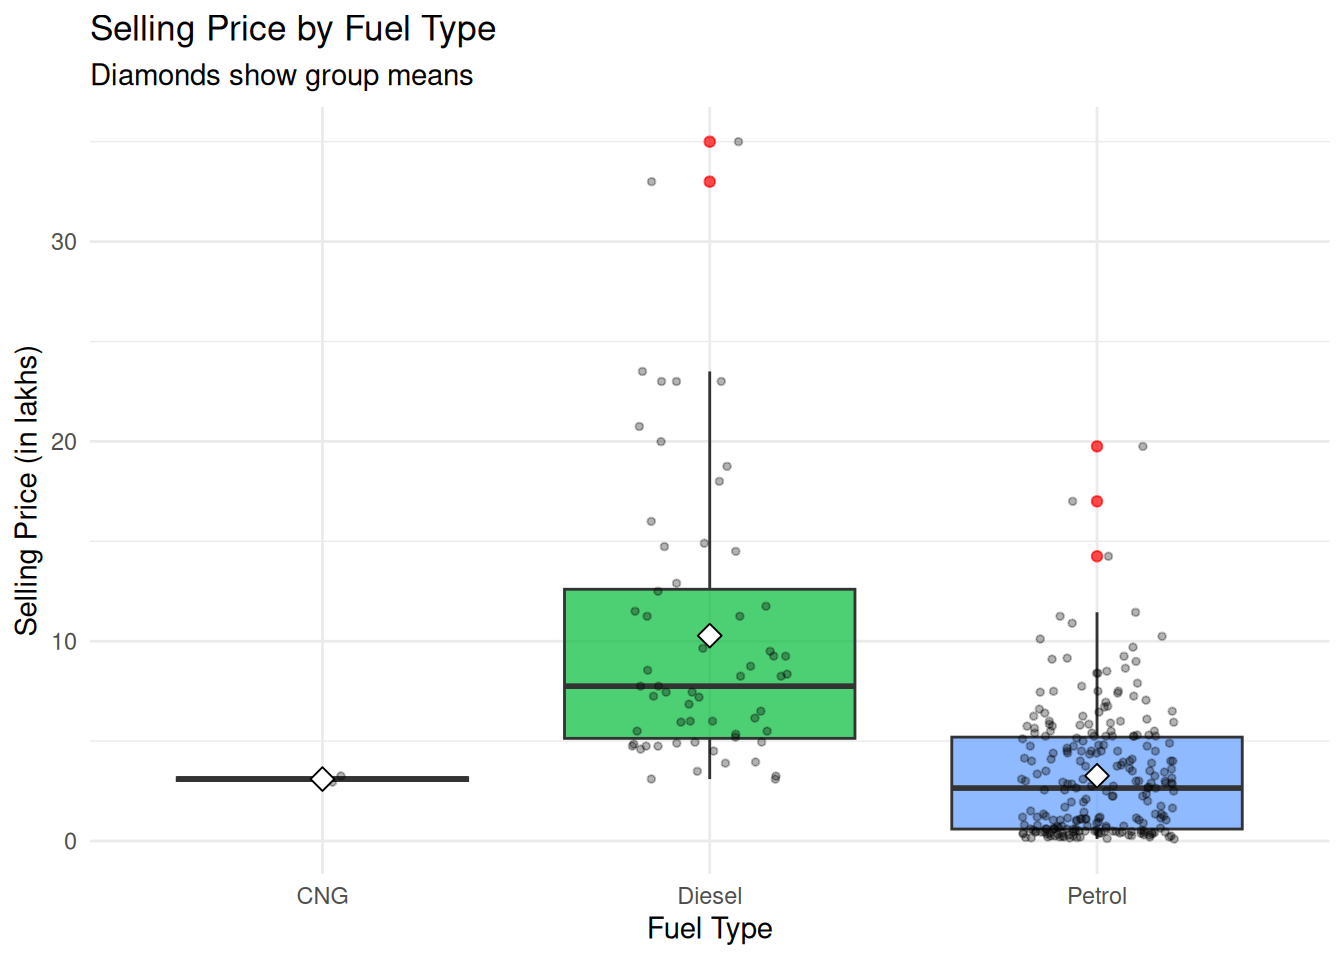
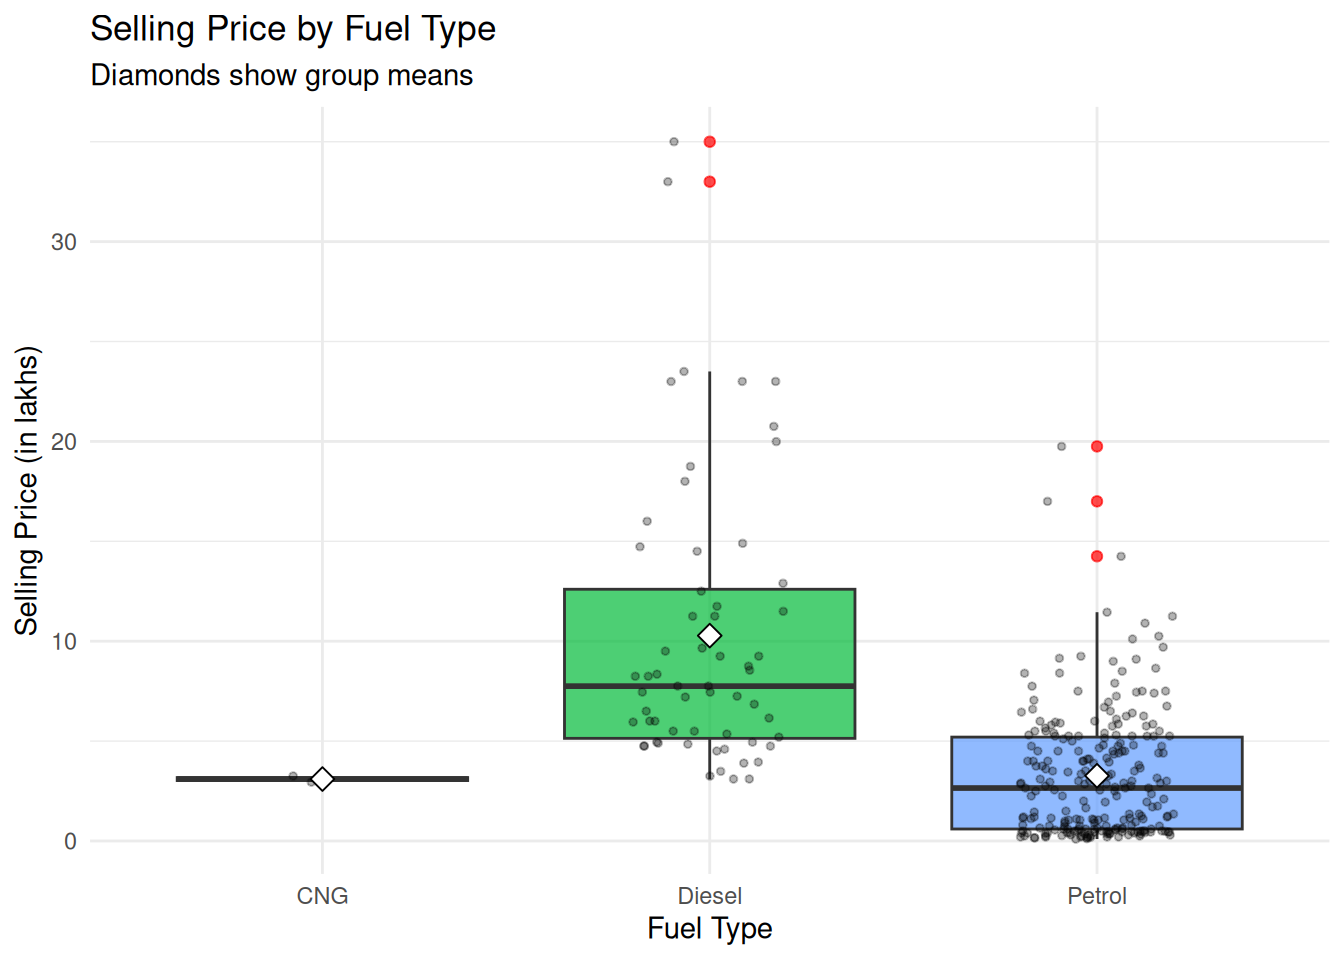
final test

diff --git a/docs/r-tutorial/4StatisticalAnalysis.html b/docs/r-tutorial/4StatisticalAnalysis.html
@@ -137,19 +137,19 @@ pre > code.sourceCode > span > a:first-child::before { text-decoration: underlin
     <ul class="dropdown-menu" aria-labelledby="nav-menu-r-tutorials">    
         <li>
     <a class="dropdown-item" href="../r-tutorial/RBasics.html">
- <span class="dropdown-text">Day 1: R Basics</span></a>
+ <span class="dropdown-text">1: R Basics</span></a>
   </li>  
         <li>
-    <a class="dropdown-item" href="../r-tutorial/2DataImportandDatawrangling.qmd">
- <span class="dropdown-text">Day 2: Data Import &amp; Wrangling</span></a>
+    <a class="dropdown-item" href="../r-tutorial/2DataImportandDataWrangling.html">
+ <span class="dropdown-text">2: Data Import &amp; Wrangling</span></a>
   </li>  
         <li>
     <a class="dropdown-item" href="../r-tutorial/3ExploratoryDataAnalysis.html">
- <span class="dropdown-text">Day 3: Exploratory Data Analysis</span></a>
+ <span class="dropdown-text">3: Exploratory Data Analysis</span></a>
   </li>  
         <li>
     <a class="dropdown-item" href="../r-tutorial/4StatisticalAnalysis.html">
- <span class="dropdown-text">Day 4: Statistical Analysis</span></a>
+ <span class="dropdown-text">4: Statistical Analysis</span></a>
   </li>  
     </ul>
   </li>
@@ -318,23 +318,23 @@ pre > code.sourceCode > span > a:first-child::before { text-decoration: underlin
 
     <script>
       // Create table-specific functions using external factory
-      const tableFns_x97oewbq8nd3em2rbmnx = TinyTable.createTableFunctions("tinytable_x97oewbq8nd3em2rbmnx");
+      const tableFns_f0hwm17ozva8h0u52bwy = TinyTable.createTableFunctions("tinytable_f0hwm17ozva8h0u52bwy");
       // tinytable span after
       window.addEventListener('load', function () {
           var cellsToStyle = [
             // tinytable style arrays after
-          { positions: [ { i: '6', j: 3 }, { i: '6', j: 4 }, { i: '6', j: 5 } ], css_id: 'tinytable_css_fjwmzmynzccey4q9a3yt',}, 
-          { positions: [ { i: '1', j: 3 }, { i: '2', j: 3 }, { i: '3', j: 3 }, { i: '4', j: 3 }, { i: '5', j: 3 }, { i: '1', j: 4 }, { i: '2', j: 4 }, { i: '3', j: 4 }, { i: '4', j: 4 }, { i: '5', j: 4 }, { i: '1', j: 5 }, { i: '2', j: 5 }, { i: '3', j: 5 }, { i: '4', j: 5 }, { i: '5', j: 5 } ], css_id: 'tinytable_css_l932uq15gn6jgnp03h8o',}, 
-          { positions: [ { i: '0', j: 3 }, { i: '0', j: 4 }, { i: '0', j: 5 } ], css_id: 'tinytable_css_5qlfgkfw08bh7ks2odpd',}, 
-          { positions: [ { i: '6', j: 1 }, { i: '6', j: 2 } ], css_id: 'tinytable_css_mdm7vsf9hsk6k2momst4',}, 
-          { positions: [ { i: '1', j: 1 }, { i: '2', j: 1 }, { i: '3', j: 1 }, { i: '4', j: 1 }, { i: '5', j: 1 }, { i: '1', j: 2 }, { i: '2', j: 2 }, { i: '3', j: 2 }, { i: '4', j: 2 }, { i: '5', j: 2 } ], css_id: 'tinytable_css_zv4sxur9bubp6rrwn2vb',}, 
-          { positions: [ { i: '0', j: 1 }, { i: '0', j: 2 } ], css_id: 'tinytable_css_0nu5k1dmy3rzo8pnt77o',}, 
+          { positions: [ { i: '6', j: 3 }, { i: '6', j: 4 }, { i: '6', j: 5 } ], css_id: 'tinytable_css_px8xc1wdc1hp5bkjf7ze',}, 
+          { positions: [ { i: '1', j: 3 }, { i: '2', j: 3 }, { i: '3', j: 3 }, { i: '4', j: 3 }, { i: '5', j: 3 }, { i: '1', j: 4 }, { i: '2', j: 4 }, { i: '3', j: 4 }, { i: '4', j: 4 }, { i: '5', j: 4 }, { i: '1', j: 5 }, { i: '2', j: 5 }, { i: '3', j: 5 }, { i: '4', j: 5 }, { i: '5', j: 5 } ], css_id: 'tinytable_css_20u63m51p6wjx6drf4g4',}, 
+          { positions: [ { i: '0', j: 3 }, { i: '0', j: 4 }, { i: '0', j: 5 } ], css_id: 'tinytable_css_hs7w8jh9zzkrdro0s85x',}, 
+          { positions: [ { i: '6', j: 1 }, { i: '6', j: 2 } ], css_id: 'tinytable_css_4qt3e8c734vmukqqgp5f',}, 
+          { positions: [ { i: '1', j: 1 }, { i: '2', j: 1 }, { i: '3', j: 1 }, { i: '4', j: 1 }, { i: '5', j: 1 }, { i: '1', j: 2 }, { i: '2', j: 2 }, { i: '3', j: 2 }, { i: '4', j: 2 }, { i: '5', j: 2 } ], css_id: 'tinytable_css_43wdl4wldp7e97fbopp4',}, 
+          { positions: [ { i: '0', j: 1 }, { i: '0', j: 2 } ], css_id: 'tinytable_css_nl65mdwcvut6maeoygsj',}, 
           ];
 
           // Loop over the arrays to style the cells
           cellsToStyle.forEach(function (group) {
               group.positions.forEach(function (cell) {
-                  tableFns_x97oewbq8nd3em2rbmnx.styleCell(cell.i, cell.j, group.css_id);
+                  tableFns_f0hwm17ozva8h0u52bwy.styleCell(cell.i, cell.j, group.css_id);
               });
           });
       });
@@ -343,15 +343,15 @@ pre > code.sourceCode > span > a:first-child::before { text-decoration: underlin
     <link rel="stylesheet" href="https://cdn.jsdelivr.net/gh/vincentarelbundock/tinytable@main/inst/tinytable.css">
     <style>
     /* tinytable css entries after */
-    #tinytable_x97oewbq8nd3em2rbmnx td.tinytable_css_fjwmzmynzccey4q9a3yt, #tinytable_x97oewbq8nd3em2rbmnx th.tinytable_css_fjwmzmynzccey4q9a3yt {  position: relative; --border-bottom: 1; --border-left: 0; --border-right: 0; --border-top: 0; --line-color-bottom: var(--tt-line-color); --line-color-left: var(--tt-line-color); --line-color-right: var(--tt-line-color); --line-color-top: var(--tt-line-color); --line-width-bottom: 0.1em; --line-width-left: 0.1em; --line-width-right: 0.1em; --line-width-top: 0.1em; --trim-bottom-left: 0%; --trim-bottom-right: 0%; --trim-left-bottom: 0%; --trim-left-top: 0%; --trim-right-bottom: 0%; --trim-right-top: 0%; --trim-top-left: 0%; --trim-top-right: 0%; ; text-align: right }
-    #tinytable_x97oewbq8nd3em2rbmnx td.tinytable_css_l932uq15gn6jgnp03h8o, #tinytable_x97oewbq8nd3em2rbmnx th.tinytable_css_l932uq15gn6jgnp03h8o { text-align: right }
-    #tinytable_x97oewbq8nd3em2rbmnx td.tinytable_css_5qlfgkfw08bh7ks2odpd, #tinytable_x97oewbq8nd3em2rbmnx th.tinytable_css_5qlfgkfw08bh7ks2odpd {  position: relative; --border-bottom: 1; --border-left: 0; --border-right: 0; --border-top: 1; --line-color-bottom: var(--tt-line-color); --line-color-left: var(--tt-line-color); --line-color-right: var(--tt-line-color); --line-color-top: var(--tt-line-color); --line-width-bottom: 0.05em; --line-width-left: 0.1em; --line-width-right: 0.1em; --line-width-top: 0.1em; --trim-bottom-left: 0%; --trim-bottom-right: 0%; --trim-left-bottom: 0%; --trim-left-top: 0%; --trim-right-bottom: 0%; --trim-right-top: 0%; --trim-top-left: 0%; --trim-top-right: 0%; ; text-align: right }
-    #tinytable_x97oewbq8nd3em2rbmnx td.tinytable_css_mdm7vsf9hsk6k2momst4, #tinytable_x97oewbq8nd3em2rbmnx th.tinytable_css_mdm7vsf9hsk6k2momst4 {  position: relative; --border-bottom: 1; --border-left: 0; --border-right: 0; --border-top: 0; --line-color-bottom: var(--tt-line-color); --line-color-left: var(--tt-line-color); --line-color-right: var(--tt-line-color); --line-color-top: var(--tt-line-color); --line-width-bottom: 0.1em; --line-width-left: 0.1em; --line-width-right: 0.1em; --line-width-top: 0.1em; --trim-bottom-left: 0%; --trim-bottom-right: 0%; --trim-left-bottom: 0%; --trim-left-top: 0%; --trim-right-bottom: 0%; --trim-right-top: 0%; --trim-top-left: 0%; --trim-top-right: 0%; ; text-align: left }
-    #tinytable_x97oewbq8nd3em2rbmnx td.tinytable_css_zv4sxur9bubp6rrwn2vb, #tinytable_x97oewbq8nd3em2rbmnx th.tinytable_css_zv4sxur9bubp6rrwn2vb { text-align: left }
-    #tinytable_x97oewbq8nd3em2rbmnx td.tinytable_css_0nu5k1dmy3rzo8pnt77o, #tinytable_x97oewbq8nd3em2rbmnx th.tinytable_css_0nu5k1dmy3rzo8pnt77o {  position: relative; --border-bottom: 1; --border-left: 0; --border-right: 0; --border-top: 1; --line-color-bottom: var(--tt-line-color); --line-color-left: var(--tt-line-color); --line-color-right: var(--tt-line-color); --line-color-top: var(--tt-line-color); --line-width-bottom: 0.05em; --line-width-left: 0.1em; --line-width-right: 0.1em; --line-width-top: 0.1em; --trim-bottom-left: 0%; --trim-bottom-right: 0%; --trim-left-bottom: 0%; --trim-left-top: 0%; --trim-right-bottom: 0%; --trim-right-top: 0%; --trim-top-left: 0%; --trim-top-right: 0%; ; text-align: left }
+    #tinytable_f0hwm17ozva8h0u52bwy td.tinytable_css_px8xc1wdc1hp5bkjf7ze, #tinytable_f0hwm17ozva8h0u52bwy th.tinytable_css_px8xc1wdc1hp5bkjf7ze {  position: relative; --border-bottom: 1; --border-left: 0; --border-right: 0; --border-top: 0; --line-color-bottom: var(--tt-line-color); --line-color-left: var(--tt-line-color); --line-color-right: var(--tt-line-color); --line-color-top: var(--tt-line-color); --line-width-bottom: 0.1em; --line-width-left: 0.1em; --line-width-right: 0.1em; --line-width-top: 0.1em; --trim-bottom-left: 0%; --trim-bottom-right: 0%; --trim-left-bottom: 0%; --trim-left-top: 0%; --trim-right-bottom: 0%; --trim-right-top: 0%; --trim-top-left: 0%; --trim-top-right: 0%; ; text-align: right }
+    #tinytable_f0hwm17ozva8h0u52bwy td.tinytable_css_20u63m51p6wjx6drf4g4, #tinytable_f0hwm17ozva8h0u52bwy th.tinytable_css_20u63m51p6wjx6drf4g4 { text-align: right }
+    #tinytable_f0hwm17ozva8h0u52bwy td.tinytable_css_hs7w8jh9zzkrdro0s85x, #tinytable_f0hwm17ozva8h0u52bwy th.tinytable_css_hs7w8jh9zzkrdro0s85x {  position: relative; --border-bottom: 1; --border-left: 0; --border-right: 0; --border-top: 1; --line-color-bottom: var(--tt-line-color); --line-color-left: var(--tt-line-color); --line-color-right: var(--tt-line-color); --line-color-top: var(--tt-line-color); --line-width-bottom: 0.05em; --line-width-left: 0.1em; --line-width-right: 0.1em; --line-width-top: 0.1em; --trim-bottom-left: 0%; --trim-bottom-right: 0%; --trim-left-bottom: 0%; --trim-left-top: 0%; --trim-right-bottom: 0%; --trim-right-top: 0%; --trim-top-left: 0%; --trim-top-right: 0%; ; text-align: right }
+    #tinytable_f0hwm17ozva8h0u52bwy td.tinytable_css_4qt3e8c734vmukqqgp5f, #tinytable_f0hwm17ozva8h0u52bwy th.tinytable_css_4qt3e8c734vmukqqgp5f {  position: relative; --border-bottom: 1; --border-left: 0; --border-right: 0; --border-top: 0; --line-color-bottom: var(--tt-line-color); --line-color-left: var(--tt-line-color); --line-color-right: var(--tt-line-color); --line-color-top: var(--tt-line-color); --line-width-bottom: 0.1em; --line-width-left: 0.1em; --line-width-right: 0.1em; --line-width-top: 0.1em; --trim-bottom-left: 0%; --trim-bottom-right: 0%; --trim-left-bottom: 0%; --trim-left-top: 0%; --trim-right-bottom: 0%; --trim-right-top: 0%; --trim-top-left: 0%; --trim-top-right: 0%; ; text-align: left }
+    #tinytable_f0hwm17ozva8h0u52bwy td.tinytable_css_43wdl4wldp7e97fbopp4, #tinytable_f0hwm17ozva8h0u52bwy th.tinytable_css_43wdl4wldp7e97fbopp4 { text-align: left }
+    #tinytable_f0hwm17ozva8h0u52bwy td.tinytable_css_nl65mdwcvut6maeoygsj, #tinytable_f0hwm17ozva8h0u52bwy th.tinytable_css_nl65mdwcvut6maeoygsj {  position: relative; --border-bottom: 1; --border-left: 0; --border-right: 0; --border-top: 1; --line-color-bottom: var(--tt-line-color); --line-color-left: var(--tt-line-color); --line-color-right: var(--tt-line-color); --line-color-top: var(--tt-line-color); --line-width-bottom: 0.05em; --line-width-left: 0.1em; --line-width-right: 0.1em; --line-width-top: 0.1em; --trim-bottom-left: 0%; --trim-bottom-right: 0%; --trim-left-bottom: 0%; --trim-left-top: 0%; --trim-right-bottom: 0%; --trim-right-top: 0%; --trim-top-left: 0%; --trim-top-right: 0%; ; text-align: left }
     </style>
     <div class="container">
-      <table class="tinytable" id="tinytable_x97oewbq8nd3em2rbmnx" style="width: auto; margin-left: auto; margin-right: auto;" data-quarto-disable-processing="true">
+      <table class="tinytable" id="tinytable_f0hwm17ozva8h0u52bwy" style="width: auto; margin-left: auto; margin-right: auto;" data-quarto-disable-processing="true">
         
         <thead>
               <tr>
@@ -427,23 +427,23 @@ pre > code.sourceCode > span > a:first-child::before { text-decoration: underlin
 
     <script>
       // Create table-specific functions using external factory
-      const tableFns_is73g3tyfkvq7sooiyvy = TinyTable.createTableFunctions("tinytable_is73g3tyfkvq7sooiyvy");
+      const tableFns_60r98s65unyoyfk5edbm = TinyTable.createTableFunctions("tinytable_60r98s65unyoyfk5edbm");
       // tinytable span after
       window.addEventListener('load', function () {
           var cellsToStyle = [
             // tinytable style arrays after
-          { positions: [ { i: '6', j: 3 }, { i: '6', j: 4 }, { i: '6', j: 5 } ], css_id: 'tinytable_css_jrj0rwdupziehlc3yhko',}, 
-          { positions: [ { i: '1', j: 3 }, { i: '2', j: 3 }, { i: '3', j: 3 }, { i: '4', j: 3 }, { i: '5', j: 3 }, { i: '1', j: 4 }, { i: '2', j: 4 }, { i: '3', j: 4 }, { i: '4', j: 4 }, { i: '5', j: 4 }, { i: '1', j: 5 }, { i: '2', j: 5 }, { i: '3', j: 5 }, { i: '4', j: 5 }, { i: '5', j: 5 } ], css_id: 'tinytable_css_7c1qo7l92bwl6og51ymd',}, 
-          { positions: [ { i: '0', j: 3 }, { i: '0', j: 4 }, { i: '0', j: 5 } ], css_id: 'tinytable_css_0urvwhf4bcc1biqfke37',}, 
-          { positions: [ { i: '6', j: 1 }, { i: '6', j: 2 } ], css_id: 'tinytable_css_qlpcxj84102po6uz0zsp',}, 
-          { positions: [ { i: '1', j: 1 }, { i: '2', j: 1 }, { i: '3', j: 1 }, { i: '4', j: 1 }, { i: '5', j: 1 }, { i: '1', j: 2 }, { i: '2', j: 2 }, { i: '3', j: 2 }, { i: '4', j: 2 }, { i: '5', j: 2 } ], css_id: 'tinytable_css_kydxbsbj6q5axvlqmrju',}, 
-          { positions: [ { i: '0', j: 1 }, { i: '0', j: 2 } ], css_id: 'tinytable_css_ojvg09soeau9135woak4',}, 
+          { positions: [ { i: '6', j: 3 }, { i: '6', j: 4 }, { i: '6', j: 5 } ], css_id: 'tinytable_css_4sq5pznfuazu47mcdti3',}, 
+          { positions: [ { i: '1', j: 3 }, { i: '2', j: 3 }, { i: '3', j: 3 }, { i: '4', j: 3 }, { i: '5', j: 3 }, { i: '1', j: 4 }, { i: '2', j: 4 }, { i: '3', j: 4 }, { i: '4', j: 4 }, { i: '5', j: 4 }, { i: '1', j: 5 }, { i: '2', j: 5 }, { i: '3', j: 5 }, { i: '4', j: 5 }, { i: '5', j: 5 } ], css_id: 'tinytable_css_8b79myqht8aiiu900tw2',}, 
+          { positions: [ { i: '0', j: 3 }, { i: '0', j: 4 }, { i: '0', j: 5 } ], css_id: 'tinytable_css_q1miqqi5r8g8tuguu9jn',}, 
+          { positions: [ { i: '6', j: 1 }, { i: '6', j: 2 } ], css_id: 'tinytable_css_9zvnf3exhc3zndmn2bfk',}, 
+          { positions: [ { i: '1', j: 1 }, { i: '2', j: 1 }, { i: '3', j: 1 }, { i: '4', j: 1 }, { i: '5', j: 1 }, { i: '1', j: 2 }, { i: '2', j: 2 }, { i: '3', j: 2 }, { i: '4', j: 2 }, { i: '5', j: 2 } ], css_id: 'tinytable_css_68dakkzs7ood0gfu988d',}, 
+          { positions: [ { i: '0', j: 1 }, { i: '0', j: 2 } ], css_id: 'tinytable_css_e5b0qkveeapzc59857og',}, 
           ];
 
           // Loop over the arrays to style the cells
           cellsToStyle.forEach(function (group) {
               group.positions.forEach(function (cell) {
-                  tableFns_is73g3tyfkvq7sooiyvy.styleCell(cell.i, cell.j, group.css_id);
+                  tableFns_60r98s65unyoyfk5edbm.styleCell(cell.i, cell.j, group.css_id);
               });
           });
       });
@@ -452,15 +452,15 @@ pre > code.sourceCode > span > a:first-child::before { text-decoration: underlin
     <link rel="stylesheet" href="https://cdn.jsdelivr.net/gh/vincentarelbundock/tinytable@main/inst/tinytable.css">
     <style>
     /* tinytable css entries after */
-    #tinytable_is73g3tyfkvq7sooiyvy td.tinytable_css_jrj0rwdupziehlc3yhko, #tinytable_is73g3tyfkvq7sooiyvy th.tinytable_css_jrj0rwdupziehlc3yhko {  position: relative; --border-bottom: 1; --border-left: 0; --border-right: 0; --border-top: 0; --line-color-bottom: var(--tt-line-color); --line-color-left: var(--tt-line-color); --line-color-right: var(--tt-line-color); --line-color-top: var(--tt-line-color); --line-width-bottom: 0.1em; --line-width-left: 0.1em; --line-width-right: 0.1em; --line-width-top: 0.1em; --trim-bottom-left: 0%; --trim-bottom-right: 0%; --trim-left-bottom: 0%; --trim-left-top: 0%; --trim-right-bottom: 0%; --trim-right-top: 0%; --trim-top-left: 0%; --trim-top-right: 0%; ; text-align: right }
-    #tinytable_is73g3tyfkvq7sooiyvy td.tinytable_css_7c1qo7l92bwl6og51ymd, #tinytable_is73g3tyfkvq7sooiyvy th.tinytable_css_7c1qo7l92bwl6og51ymd { text-align: right }
-    #tinytable_is73g3tyfkvq7sooiyvy td.tinytable_css_0urvwhf4bcc1biqfke37, #tinytable_is73g3tyfkvq7sooiyvy th.tinytable_css_0urvwhf4bcc1biqfke37 {  position: relative; --border-bottom: 1; --border-left: 0; --border-right: 0; --border-top: 1; --line-color-bottom: var(--tt-line-color); --line-color-left: var(--tt-line-color); --line-color-right: var(--tt-line-color); --line-color-top: var(--tt-line-color); --line-width-bottom: 0.05em; --line-width-left: 0.1em; --line-width-right: 0.1em; --line-width-top: 0.1em; --trim-bottom-left: 0%; --trim-bottom-right: 0%; --trim-left-bottom: 0%; --trim-left-top: 0%; --trim-right-bottom: 0%; --trim-right-top: 0%; --trim-top-left: 0%; --trim-top-right: 0%; ; text-align: right }
-    #tinytable_is73g3tyfkvq7sooiyvy td.tinytable_css_qlpcxj84102po6uz0zsp, #tinytable_is73g3tyfkvq7sooiyvy th.tinytable_css_qlpcxj84102po6uz0zsp {  position: relative; --border-bottom: 1; --border-left: 0; --border-right: 0; --border-top: 0; --line-color-bottom: var(--tt-line-color); --line-color-left: var(--tt-line-color); --line-color-right: var(--tt-line-color); --line-color-top: var(--tt-line-color); --line-width-bottom: 0.1em; --line-width-left: 0.1em; --line-width-right: 0.1em; --line-width-top: 0.1em; --trim-bottom-left: 0%; --trim-bottom-right: 0%; --trim-left-bottom: 0%; --trim-left-top: 0%; --trim-right-bottom: 0%; --trim-right-top: 0%; --trim-top-left: 0%; --trim-top-right: 0%; ; text-align: left }
-    #tinytable_is73g3tyfkvq7sooiyvy td.tinytable_css_kydxbsbj6q5axvlqmrju, #tinytable_is73g3tyfkvq7sooiyvy th.tinytable_css_kydxbsbj6q5axvlqmrju { text-align: left }
-    #tinytable_is73g3tyfkvq7sooiyvy td.tinytable_css_ojvg09soeau9135woak4, #tinytable_is73g3tyfkvq7sooiyvy th.tinytable_css_ojvg09soeau9135woak4 {  position: relative; --border-bottom: 1; --border-left: 0; --border-right: 0; --border-top: 1; --line-color-bottom: var(--tt-line-color); --line-color-left: var(--tt-line-color); --line-color-right: var(--tt-line-color); --line-color-top: var(--tt-line-color); --line-width-bottom: 0.05em; --line-width-left: 0.1em; --line-width-right: 0.1em; --line-width-top: 0.1em; --trim-bottom-left: 0%; --trim-bottom-right: 0%; --trim-left-bottom: 0%; --trim-left-top: 0%; --trim-right-bottom: 0%; --trim-right-top: 0%; --trim-top-left: 0%; --trim-top-right: 0%; ; text-align: left }
+    #tinytable_60r98s65unyoyfk5edbm td.tinytable_css_4sq5pznfuazu47mcdti3, #tinytable_60r98s65unyoyfk5edbm th.tinytable_css_4sq5pznfuazu47mcdti3 {  position: relative; --border-bottom: 1; --border-left: 0; --border-right: 0; --border-top: 0; --line-color-bottom: var(--tt-line-color); --line-color-left: var(--tt-line-color); --line-color-right: var(--tt-line-color); --line-color-top: var(--tt-line-color); --line-width-bottom: 0.1em; --line-width-left: 0.1em; --line-width-right: 0.1em; --line-width-top: 0.1em; --trim-bottom-left: 0%; --trim-bottom-right: 0%; --trim-left-bottom: 0%; --trim-left-top: 0%; --trim-right-bottom: 0%; --trim-right-top: 0%; --trim-top-left: 0%; --trim-top-right: 0%; ; text-align: right }
+    #tinytable_60r98s65unyoyfk5edbm td.tinytable_css_8b79myqht8aiiu900tw2, #tinytable_60r98s65unyoyfk5edbm th.tinytable_css_8b79myqht8aiiu900tw2 { text-align: right }
+    #tinytable_60r98s65unyoyfk5edbm td.tinytable_css_q1miqqi5r8g8tuguu9jn, #tinytable_60r98s65unyoyfk5edbm th.tinytable_css_q1miqqi5r8g8tuguu9jn {  position: relative; --border-bottom: 1; --border-left: 0; --border-right: 0; --border-top: 1; --line-color-bottom: var(--tt-line-color); --line-color-left: var(--tt-line-color); --line-color-right: var(--tt-line-color); --line-color-top: var(--tt-line-color); --line-width-bottom: 0.05em; --line-width-left: 0.1em; --line-width-right: 0.1em; --line-width-top: 0.1em; --trim-bottom-left: 0%; --trim-bottom-right: 0%; --trim-left-bottom: 0%; --trim-left-top: 0%; --trim-right-bottom: 0%; --trim-right-top: 0%; --trim-top-left: 0%; --trim-top-right: 0%; ; text-align: right }
+    #tinytable_60r98s65unyoyfk5edbm td.tinytable_css_9zvnf3exhc3zndmn2bfk, #tinytable_60r98s65unyoyfk5edbm th.tinytable_css_9zvnf3exhc3zndmn2bfk {  position: relative; --border-bottom: 1; --border-left: 0; --border-right: 0; --border-top: 0; --line-color-bottom: var(--tt-line-color); --line-color-left: var(--tt-line-color); --line-color-right: var(--tt-line-color); --line-color-top: var(--tt-line-color); --line-width-bottom: 0.1em; --line-width-left: 0.1em; --line-width-right: 0.1em; --line-width-top: 0.1em; --trim-bottom-left: 0%; --trim-bottom-right: 0%; --trim-left-bottom: 0%; --trim-left-top: 0%; --trim-right-bottom: 0%; --trim-right-top: 0%; --trim-top-left: 0%; --trim-top-right: 0%; ; text-align: left }
+    #tinytable_60r98s65unyoyfk5edbm td.tinytable_css_68dakkzs7ood0gfu988d, #tinytable_60r98s65unyoyfk5edbm th.tinytable_css_68dakkzs7ood0gfu988d { text-align: left }
+    #tinytable_60r98s65unyoyfk5edbm td.tinytable_css_e5b0qkveeapzc59857og, #tinytable_60r98s65unyoyfk5edbm th.tinytable_css_e5b0qkveeapzc59857og {  position: relative; --border-bottom: 1; --border-left: 0; --border-right: 0; --border-top: 1; --line-color-bottom: var(--tt-line-color); --line-color-left: var(--tt-line-color); --line-color-right: var(--tt-line-color); --line-color-top: var(--tt-line-color); --line-width-bottom: 0.05em; --line-width-left: 0.1em; --line-width-right: 0.1em; --line-width-top: 0.1em; --trim-bottom-left: 0%; --trim-bottom-right: 0%; --trim-left-bottom: 0%; --trim-left-top: 0%; --trim-right-bottom: 0%; --trim-right-top: 0%; --trim-top-left: 0%; --trim-top-right: 0%; ; text-align: left }
     </style>
     <div class="container">
-      <table class="tinytable" id="tinytable_is73g3tyfkvq7sooiyvy" style="width: auto; margin-left: auto; margin-right: auto;" data-quarto-disable-processing="true">
+      <table class="tinytable" id="tinytable_60r98s65unyoyfk5edbm" style="width: auto; margin-left: auto; margin-right: auto;" data-quarto-disable-processing="true">
         
         <thead>
               <tr>

diff --git a/docs/index.html b/docs/index.html
@@ -99,19 +99,19 @@ ul.task-list li input[type="checkbox"] {
     <ul class="dropdown-menu" aria-labelledby="nav-menu-r-tutorials">    
         <li>
     <a class="dropdown-item" href="./r-tutorial/RBasics.html">
- <span class="dropdown-text">Day 1: R Basics</span></a>
+ <span class="dropdown-text">1: R Basics</span></a>
   </li>  
         <li>
-    <a class="dropdown-item" href="./r-tutorial/2DataImportandDatawrangling.qmd">
- <span class="dropdown-text">Day 2: Data Import &amp; Wrangling</span></a>
+    <a class="dropdown-item" href="./r-tutorial/2DataImportandDataWrangling.html">
+ <span class="dropdown-text">2: Data Import &amp; Wrangling</span></a>
   </li>  
         <li>
     <a class="dropdown-item" href="./r-tutorial/3ExploratoryDataAnalysis.html">
- <span class="dropdown-text">Day 3: Exploratory Data Analysis</span></a>
+ <span class="dropdown-text">3: Exploratory Data Analysis</span></a>
   </li>  
         <li>
     <a class="dropdown-item" href="./r-tutorial/4StatisticalAnalysis.html">
- <span class="dropdown-text">Day 4: Statistical Analysis</span></a>
+ <span class="dropdown-text">4: Statistical Analysis</span></a>
   </li>  
     </ul>
   </li>

diff --git a/docs/mascollelmicroeconomics/Part1.html b/docs/mascollelmicroeconomics/Part1.html
@@ -145,19 +145,19 @@ window.Quarto = {
     <ul class="dropdown-menu" aria-labelledby="nav-menu-r-tutorials">    
         <li>
     <a class="dropdown-item" href="../r-tutorial/RBasics.html">
- <span class="dropdown-text">Day 1: R Basics</span></a>
+ <span class="dropdown-text">1: R Basics</span></a>
   </li>  
         <li>
-    <a class="dropdown-item" href="../r-tutorial/2DataImportandDatawrangling.qmd">
- <span class="dropdown-text">Day 2: Data Import &amp; Wrangling</span></a>
+    <a class="dropdown-item" href="../r-tutorial/2DataImportandDataWrangling.html">
+ <span class="dropdown-text">2: Data Import &amp; Wrangling</span></a>
   </li>  
         <li>
     <a class="dropdown-item" href="../r-tutorial/3ExploratoryDataAnalysis.html">
- <span class="dropdown-text">Day 3: Exploratory Data Analysis</span></a>
+ <span class="dropdown-text">3: Exploratory Data Analysis</span></a>
   </li>  
         <li>
     <a class="dropdown-item" href="../r-tutorial/4StatisticalAnalysis.html">
- <span class="dropdown-text">Day 4: Statistical Analysis</span></a>
+ <span class="dropdown-text">4: Statistical Analysis</span></a>
   </li>  
     </ul>
   </li>

diff --git a/docs/r-tutorial/2DataImportandDataWrangling.html b/docs/r-tutorial/2DataImportandDataWrangling.html
@@ -137,19 +137,19 @@ pre > code.sourceCode > span > a:first-child::before { text-decoration: underlin
     <ul class="dropdown-menu" aria-labelledby="nav-menu-r-tutorials">    
         <li>
     <a class="dropdown-item" href="../r-tutorial/RBasics.html">
- <span class="dropdown-text">Day 1: R Basics</span></a>
+ <span class="dropdown-text">1: R Basics</span></a>
   </li>  
         <li>
-    <a class="dropdown-item" href="../r-tutorial/2DataImportandDatawrangling.qmd">
- <span class="dropdown-text">Day 2: Data Import &amp; Wrangling</span></a>
+    <a class="dropdown-item" href="../r-tutorial/2DataImportandDataWrangling.html">
+ <span class="dropdown-text">2: Data Import &amp; Wrangling</span></a>
   </li>  
         <li>
     <a class="dropdown-item" href="../r-tutorial/3ExploratoryDataAnalysis.html">
- <span class="dropdown-text">Day 3: Exploratory Data Analysis</span></a>
+ <span class="dropdown-text">3: Exploratory Data Analysis</span></a>
   </li>  
         <li>
     <a class="dropdown-item" href="../r-tutorial/4StatisticalAnalysis.html">
- <span class="dropdown-text">Day 4: Statistical Analysis</span></a>
+ <span class="dropdown-text">4: Statistical Analysis</span></a>
   </li>  
     </ul>
   </li>

diff --git a/docs/r-tutorial/3ExploratoryDataAnalysis.html b/docs/r-tutorial/3ExploratoryDataAnalysis.html
@@ -138,19 +138,19 @@ pre > code.sourceCode > span > a:first-child::before { text-decoration: underlin
     <ul class="dropdown-menu" aria-labelledby="nav-menu-r-tutorials">    
         <li>
     <a class="dropdown-item" href="../r-tutorial/RBasics.html">
- <span class="dropdown-text">Day 1: R Basics</span></a>
+ <span class="dropdown-text">1: R Basics</span></a>
   </li>  
         <li>
-    <a class="dropdown-item" href="../r-tutorial/2DataImportandDatawrangling.qmd">
- <span class="dropdown-text">Day 2: Data Import &amp; Wrangling</span></a>
+    <a class="dropdown-item" href="../r-tutorial/2DataImportandDataWrangling.html">
+ <span class="dropdown-text">2: Data Import &amp; Wrangling</span></a>
   </li>  
         <li>
     <a class="dropdown-item" href="../r-tutorial/3ExploratoryDataAnalysis.html">
- <span class="dropdown-text">Day 3: Exploratory Data Analysis</span></a>
+ <span class="dropdown-text">3: Exploratory Data Analysis</span></a>
   </li>  
         <li>
     <a class="dropdown-item" href="../r-tutorial/4StatisticalAnalysis.html">
- <span class="dropdown-text">Day 4: Statistical Analysis</span></a>
+ <span class="dropdown-text">4: Statistical Analysis</span></a>
   </li>  
     </ul>
   </li>

diff --git a/docs/r-tutorial/RBasics.html b/docs/r-tutorial/RBasics.html
@@ -137,19 +137,19 @@ pre > code.sourceCode > span > a:first-child::before { text-decoration: underlin
     <ul class="dropdown-menu" aria-labelledby="nav-menu-r-tutorials">    
         <li>
     <a class="dropdown-item" href="../r-tutorial/RBasics.html">
- <span class="dropdown-text">Day 1: R Basics</span></a>
+ <span class="dropdown-text">1: R Basics</span></a>
   </li>  
         <li>
-    <a class="dropdown-item" href="../r-tutorial/2DataImportandDatawrangling.qmd">
- <span class="dropdown-text">Day 2: Data Import &amp; Wrangling</span></a>
+    <a class="dropdown-item" href="../r-tutorial/2DataImportandDataWrangling.html">
+ <span class="dropdown-text">2: Data Import &amp; Wrangling</span></a>
   </li>  
         <li>
     <a class="dropdown-item" href="../r-tutorial/3ExploratoryDataAnalysis.html">
- <span class="dropdown-text">Day 3: Exploratory Data Analysis</span></a>
+ <span class="dropdown-text">3: Exploratory Data Analysis</span></a>
   </li>  
         <li>
     <a class="dropdown-item" href="../r-tutorial/4StatisticalAnalysis.html">
- <span class="dropdown-text">Day 4: Statistical Analysis</span></a>
+ <span class="dropdown-text">4: Statistical Analysis</span></a>
   </li>  
     </ul>
   </li>

diff --git a/docs/r-tutorial/index.html b/docs/r-tutorial/index.html
@@ -100,19 +100,19 @@ ul.task-list li input[type="checkbox"] {
     <ul class="dropdown-menu" aria-labelledby="nav-menu-r-tutorials">    
         <li>
     <a class="dropdown-item" href="../r-tutorial/RBasics.html">
- <span class="dropdown-text">Day 1: R Basics</span></a>
+ <span class="dropdown-text">1: R Basics</span></a>
   </li>  
         <li>
-    <a class="dropdown-item" href="../r-tutorial/2DataImportandDatawrangling.qmd">
- <span class="dropdown-text">Day 2: Data Import &amp; Wrangling</span></a>
+    <a class="dropdown-item" href="../r-tutorial/2DataImportandDataWrangling.html">
+ <span class="dropdown-text">2: Data Import &amp; Wrangling</span></a>
   </li>  
         <li>
     <a class="dropdown-item" href="../r-tutorial/3ExploratoryDataAnalysis.html">
- <span class="dropdown-text">Day 3: Exploratory Data Analysis</span></a>
+ <span class="dropdown-text">3: Exploratory Data Analysis</span></a>
   </li>  
         <li>
     <a class="dropdown-item" href="../r-tutorial/4StatisticalAnalysis.html">
- <span class="dropdown-text">Day 4: Statistical Analysis</span></a>
+ <span class="dropdown-text">4: Statistical Analysis</span></a>
   </li>  
     </ul>
   </li>